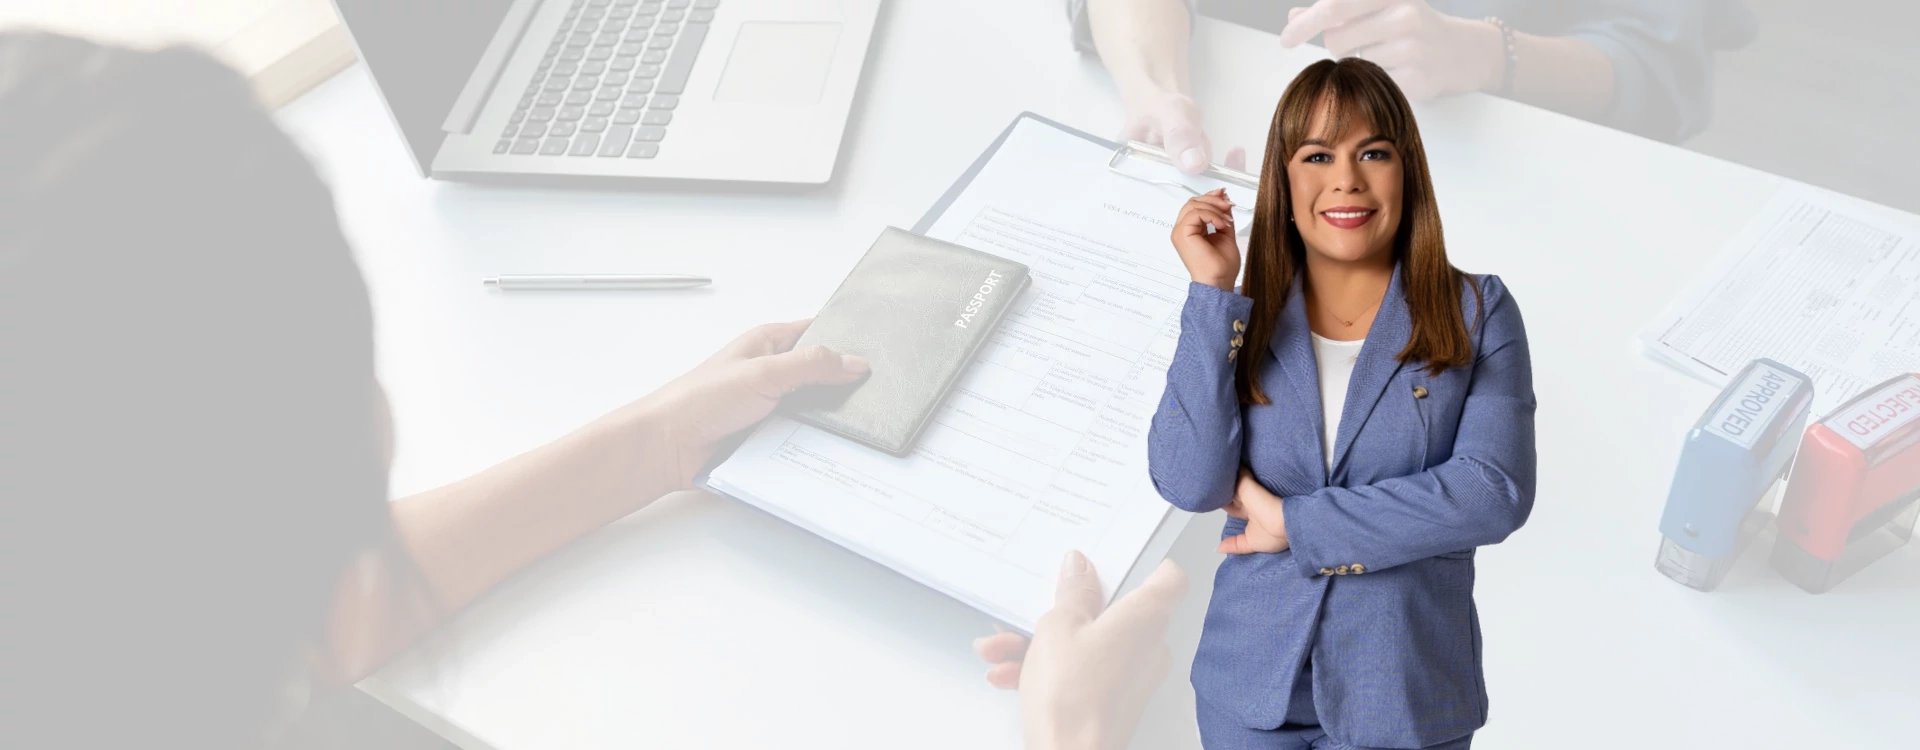
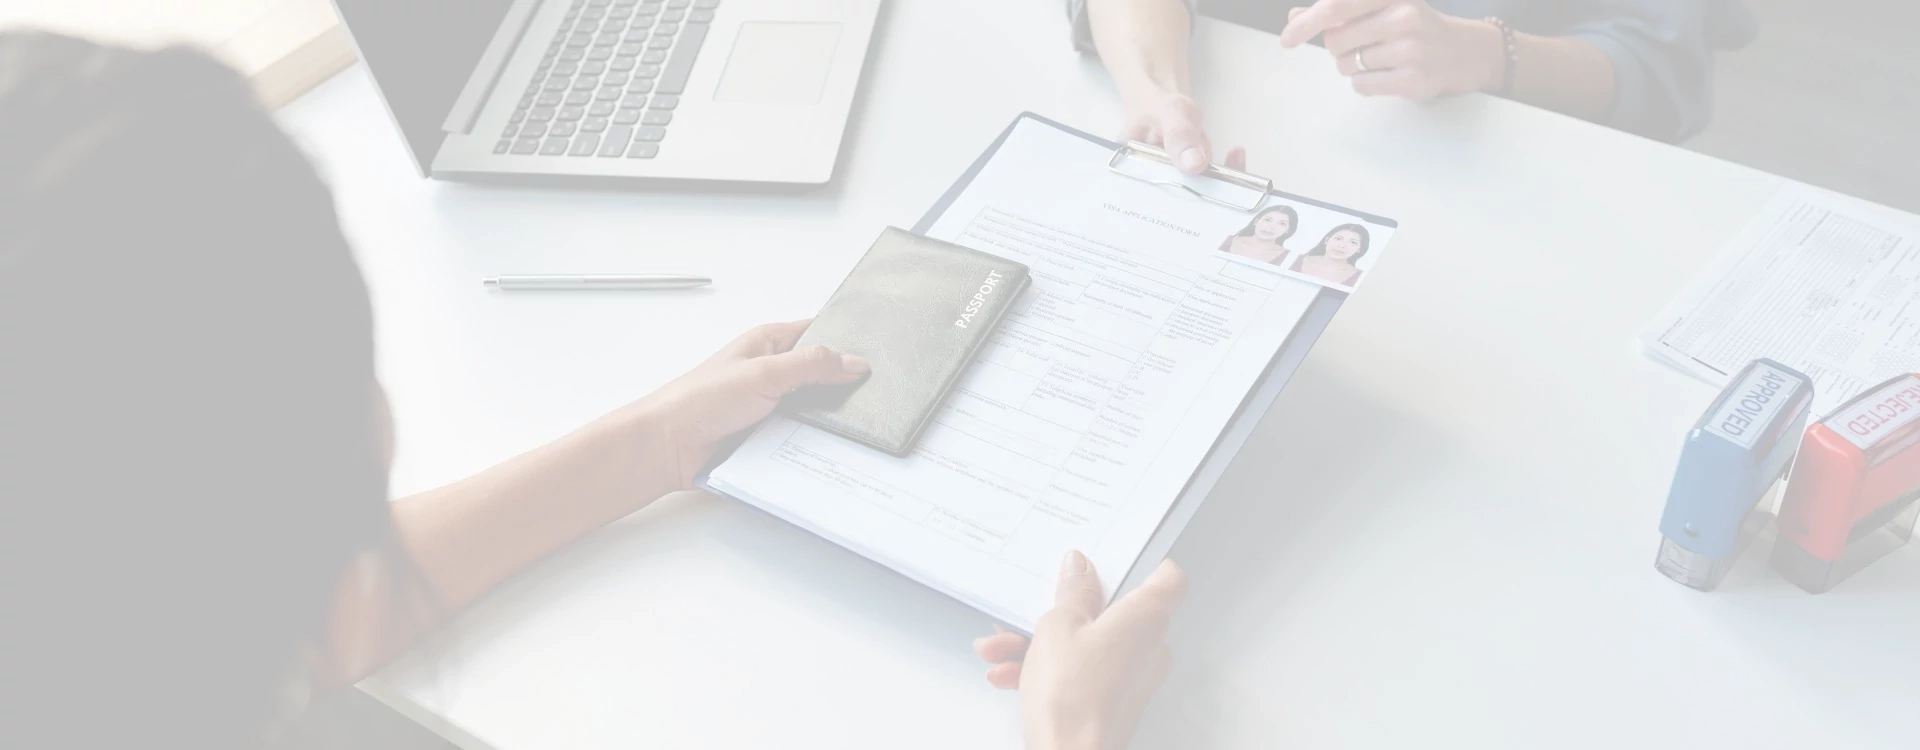
refactor: updates on types, better images and animations. new important message section added

Changed region(s): [[0.5938, 0.0613, 0.8125, 1.0]]

diff --git a/src/features/landing/CenteredHero.tsx b/src/features/landing/CenteredHero.tsx
@@ -1,4 +1,5 @@
 import { motion } from 'framer-motion';
+import Image from 'next/image';
 import { InView } from 'react-intersection-observer';
 
 export const CenteredHero = (props: {
@@ -6,17 +7,19 @@ export const CenteredHero = (props: {
   title: React.ReactNode;
   description: string;
   buttons: React.ReactNode;
+  image: string;
 }) => (
   <InView>
     {({ inView, ref }) => (
       <>
+        <Image src={props.image} width={320} height={700} alt="Mariceli" className="absolute right-12 top-56 -z-0 max-w-[180px] md:top-40 md:max-w-[260px] lg:top-36" />
         <motion.div
           ref={ref}
           initial={{ opacity: 0, y: -50 }}
           animate={inView ? { opacity: 1, y: 0 } : {}}
           transition={{ duration: 0.5, delay: 0.8 }}
         >
-          <div className="text-center">{props.banner}</div>
+          <div className="relative z-10 text-center">{props.banner}</div>
         </motion.div>
 
         <motion.div
@@ -25,7 +28,7 @@ export const CenteredHero = (props: {
           animate={inView ? { opacity: 1, y: 0 } : {}}
           transition={{ duration: 0.5 }}
         >
-          <div className="mt-3 text-center text-5xl font-bold tracking-tight">
+          <div className="relative z-10 mt-3 text-center text-5xl font-bold tracking-tight">
             {props.title}
           </div>
         </motion.div>
@@ -36,7 +39,7 @@ export const CenteredHero = (props: {
           animate={inView ? { opacity: 1, y: 0 } : {}}
           transition={{ duration: 0.5, delay: 0.2 }}
         >
-          <div className="mx-auto mt-5 max-w-screen-md text-center text-xl">
+          <div className="relative z-10 mx-auto mt-5 max-w-screen-md text-center text-xl">
             {props.description}
           </div>
         </motion.div>
@@ -47,7 +50,7 @@ export const CenteredHero = (props: {
           animate={inView ? { opacity: 1, y: 0 } : {}}
           transition={{ duration: 0.5, delay: 0.4 }}
         >
-          <div className="mt-8 flex justify-center gap-x-5 gap-y-3 max-sm:flex-col">
+          <div className="relative z-10 mt-8 flex justify-center gap-x-5 gap-y-3 max-sm:flex-col">
             {props.buttons}
           </div>
         </motion.div>

diff --git a/src/templates/ImportantNotice.tsx b/src/templates/ImportantNotice.tsx
@@ -1,0 +1,33 @@
+'use client';
+import { motion } from 'framer-motion';
+import Image from 'next/image';
+import { useTranslations } from 'next-intl';
+import React from 'react';
+import { InView } from 'react-intersection-observer';
+
+import { Section } from '@/features/landing/Section';
+
+export const ImportantNotice = () => {
+  const t = useTranslations('Index');
+  return (
+    <InView>
+      {({ inView, ref }) => (
+        <div ref={ref}>
+          <motion.div
+            initial={{ opacity: 0 }}
+            animate={inView ? { opacity: 1 } : { opacity: 0 }}
+            transition={{ duration: 1 }}
+          >
+            <Section>
+              <div className="flex flex-col items-center gap-4 rounded-lg bg-slate-300 p-12">
+                <Image src="/assets/images/warning-6.svg" alt="important" width={100} height={100} />
+                <h2 className="text-2xl font-bold">{t('important_notice_title')}</h2>
+                <p>{t('important_notice')}</p>
+              </div>
+            </Section>
+          </motion.div>
+        </div>
+      )}
+    </InView>
+  );
+};

diff --git a/src/templates/Hero.tsx b/src/templates/Hero.tsx
@@ -15,12 +15,12 @@ export const Hero = () => {
       <CenteredHero
         banner={(
           <a
-            className={badgeVariants()}
+            className={`${badgeVariants()} z-10`}
             href="https://instagram.com/mvconsultingusa"
             target="_blank"
             rel="noopener noreferrer"
           >
-            <InstagramLogoIcon className="mr-1 size-5" />
+            <InstagramLogoIcon className="z-10 mr-1 size-5" />
             {' '}
             {t('follow_instagram')}
           </a>
@@ -42,6 +42,7 @@ export const Hero = () => {
             {t('primary_button')}
           </a>
         )}
+        image="/assets/images/mariceli-hero.webp"
       />
     </Section>
   );

diff --git a/src/templates/Navbar.tsx b/src/templates/Navbar.tsx
@@ -13,7 +13,7 @@ export const Navbar = () => {
   const t = useTranslations('Navbar');
 
   return (
-    <Section className="px-3 py-6">
+    <Section className="relative z-50 px-3 py-6">
       <InView>
         {({ ref, inView }) => (
           <motion.div
@@ -28,8 +28,8 @@ export const Navbar = () => {
                   src="/assets/images/logo-white.png"
                   alt="MV Consulting"
                   className=""
-                  width="190"
-                  height="70"
+                  width="220"
+                  height="100"
                 />
               )}
               rightMenu={(

diff --git a/src/app/[locale]/layout.tsx b/src/app/[locale]/layout.tsx
@@ -7,6 +7,7 @@ import { Toaster } from 'react-hot-toast';
 
 import { Footer } from '@/templates/Footer';
 import { Navbar } from '@/templates/Navbar';
+import { StickyTopBanner } from '@/templates/StickyTopBanner';
 import { AllLocales } from '@/utils/AppConfig';
 
 export const metadata: Metadata = {
@@ -60,6 +61,7 @@ export default function RootLayout(props: {
           locale={props.params.locale}
           messages={messages}
         >
+          <StickyTopBanner title="banner_title" description="banner_description" link="banner_link" />
           <Navbar />
           {props.children}
           <Footer />

diff --git a/src/templates/StickyTopBanner.tsx b/src/templates/StickyTopBanner.tsx
@@ -3,12 +3,13 @@ import { useTranslations } from 'next-intl';
 
 import { StickyBanner } from '@/features/landing/StickyBanner';
 
-export const StickyTopBanner = () => {
+import type { StickyTopBannerProps } from '../types/StickyTopBannerProps';
+
+export const StickyTopBanner = ({ description, link }: StickyTopBannerProps) => {
   const t = useTranslations('StickyTopBanner');
   return (
     <StickyBanner>
-      {`${t('banner_title')} - `}
-      <Link href="/tax-season">{t('banner_description')}</Link>
+      <Link href={`/${t(link)}`}>{t(description)}</Link>
     </StickyBanner>
   );
 };

diff --git a/src/app/[locale]/(unauth)/page.tsx b/src/app/[locale]/(unauth)/page.tsx
@@ -4,6 +4,7 @@ import { Asylum } from '@/templates/Asylum';
 import { CTA } from '@/templates/CTA';
 import { Hero } from '@/templates/Hero';
 import { ImmigrationExpert } from '@/templates/ImmigrationExperts';
+import { ImportantNotice } from '@/templates/ImportantNotice';
 import { Nationality } from '@/templates/Nationality';
 import { Services } from '@/templates/Services';
 
@@ -29,6 +30,7 @@ const IndexPage = (props: { params: { locale: string } }) => {
       <ImmigrationExpert />
       <Nationality />
       <Asylum />
+      <ImportantNotice />
       <CTA />
     </>
   );

diff --git a/src/features/landing/StickyBanner.tsx b/src/features/landing/StickyBanner.tsx
@@ -1,5 +1,5 @@
 export const StickyBanner = (props: { children: React.ReactNode }) => (
-  <div className="sticky top-0 z-50 bg-primary p-4 text-center text-lg font-semibold text-primary-foreground [&_a:hover]:text-indigo-500 [&_a]:text-blue-500">
+  <div className="z-50 bg-primary p-4 text-center text-sm font-semibold uppercase text-primary-foreground [&_a:hover]:text-indigo-500 [&_a]:text-yellow-200">
     {props.children}
   </div>
 );

diff --git a/src/types/StickyTopBannerProps.ts b/src/types/StickyTopBannerProps.ts
@@ -1,0 +1,5 @@
+export type StickyTopBannerProps = {
+  title: string;
+  description: string;
+  link: string;
+};
